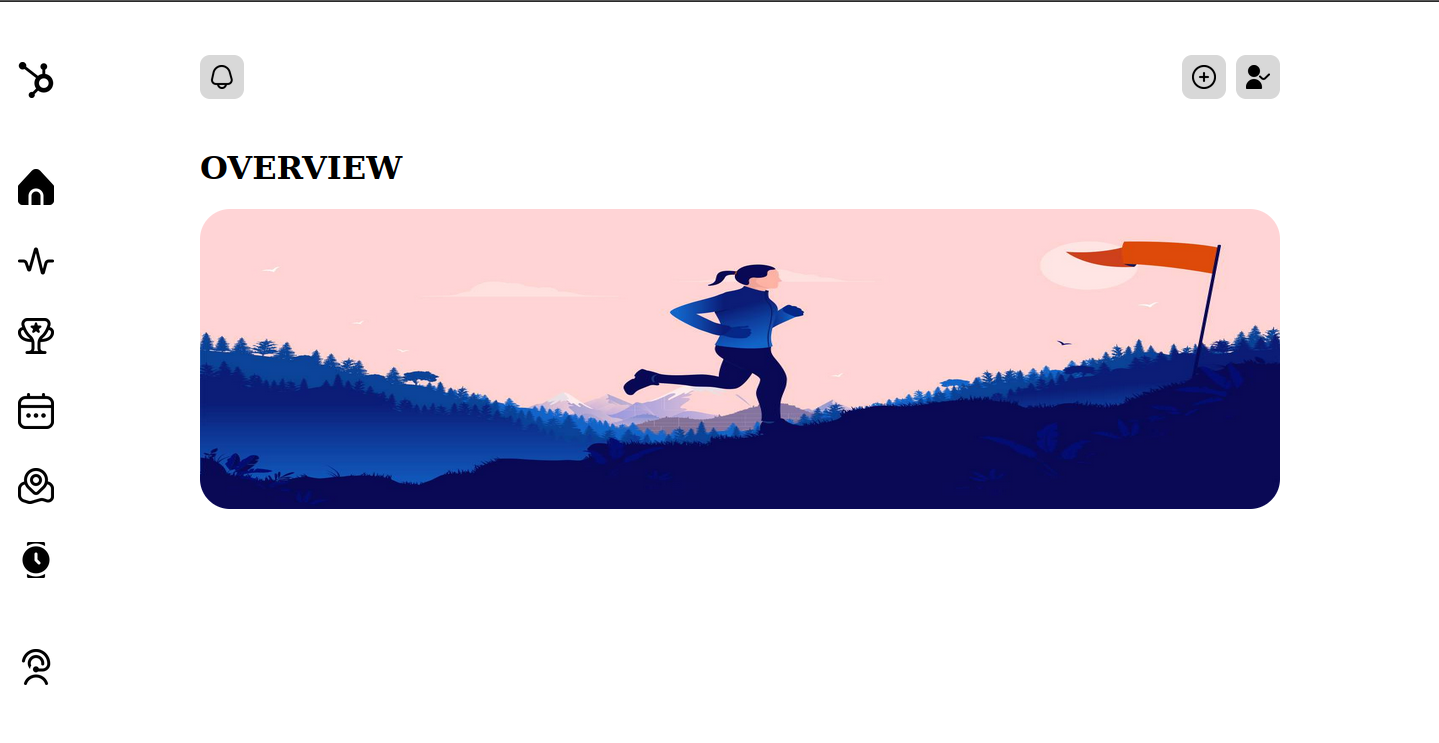
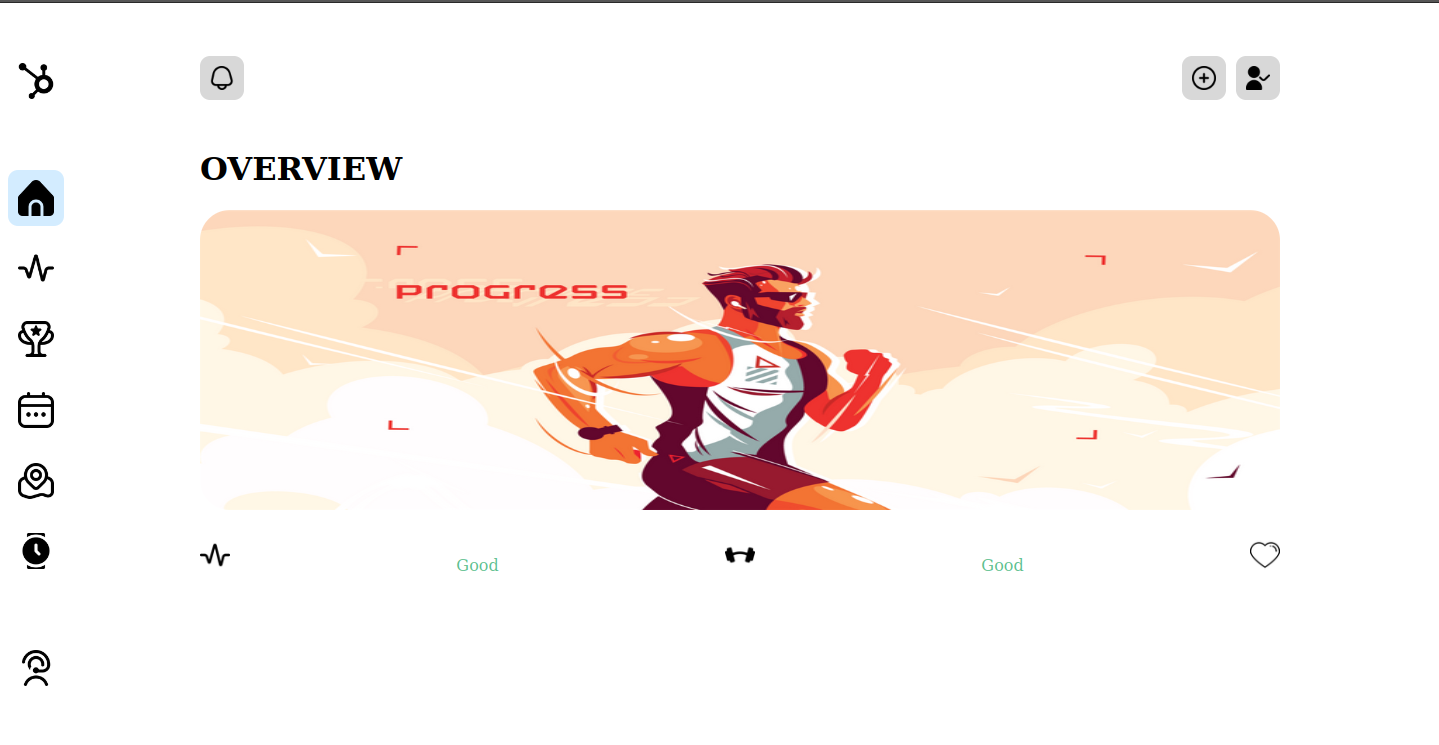
...

diff --git a/EX2/style.css b/EX2/style.css
@@ -12,7 +12,7 @@ body {
   display: flex;
   flex-direction: column;
   justify-content: space-between;
-  background-color: rgba(194, 194, 194, 0.212);
+  background-color: rgba(194, 194, 194, 0.212) enn;
 }
 
 .top,
@@ -82,7 +82,7 @@ body {
 }
 
 .side-active {
-  background-color: #acd1efc7;
+  background-color: #c9e8ffce;
 }
 
 .cont-img {
@@ -96,8 +96,20 @@ body {
   width: 100%;
   height: 300px;
   border-radius: 30px;
+  object-fit: fill;
 }
 
-h1 {
-  font-family: TYPOGRAPHY;
+.sections {
+  display: flex;
+  justify-content: space-between;
+  margin: 30px 0;
+  height: 30px;
+}
+
+.sections > p {
+  color: rgba(50, 173, 111, 0.788);
+}
+
+.section-img {
+  height: 100%;
 }

diff --git a/EX2/index.html b/EX2/index.html
@@ -35,7 +35,14 @@
       </div>
       <div class="con-middle">
         <h1>OVERVIEW</h1>
-        <img src="assets/Article_Banner-1-23.jpg" class="goal-img" />
+        <img src="assets/athlete.png" class="goal-img" />
+      </div>
+      <div class="sections">
+        <img src="./assets/heart-rate.png" class="section-img" />
+        <p>Good</p>
+        <img src="./assets/gym.png" class="section-img" />
+        <p>Good</p>
+        <img src="./assets/heart.png" class="section-img" />
       </div>
     </div>
   </body>
